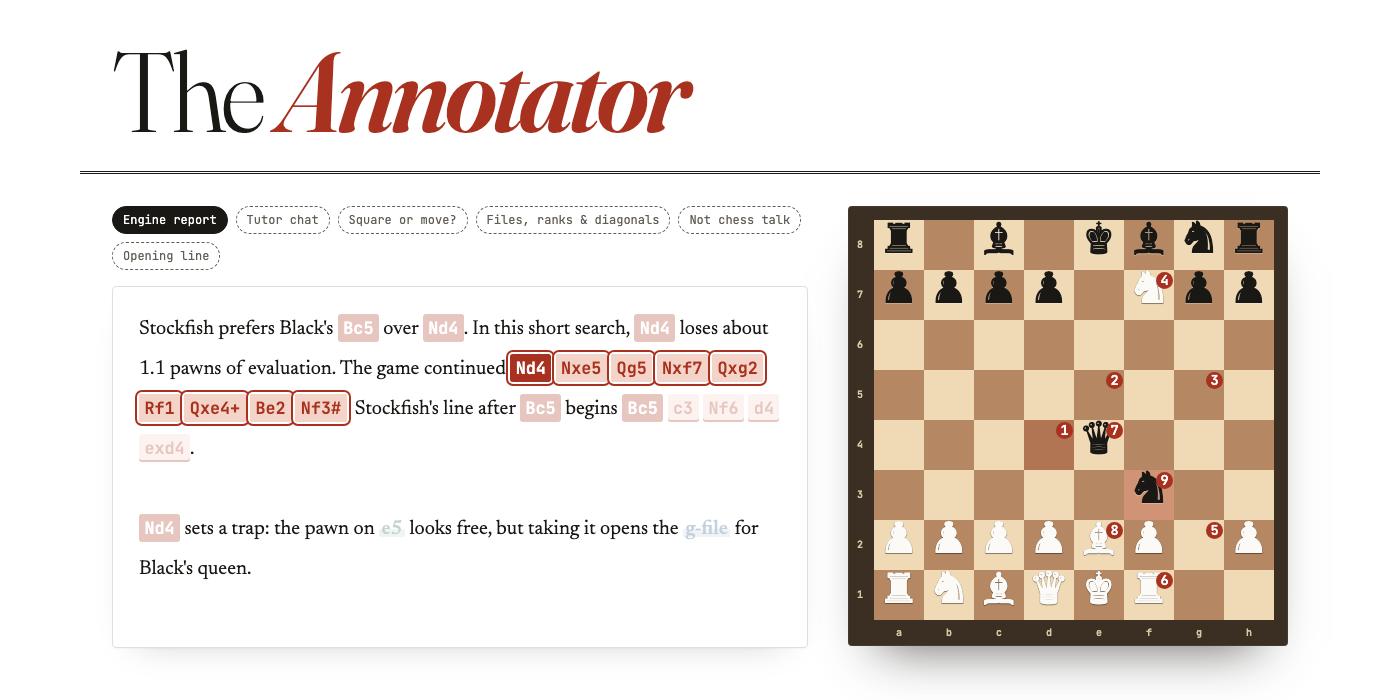
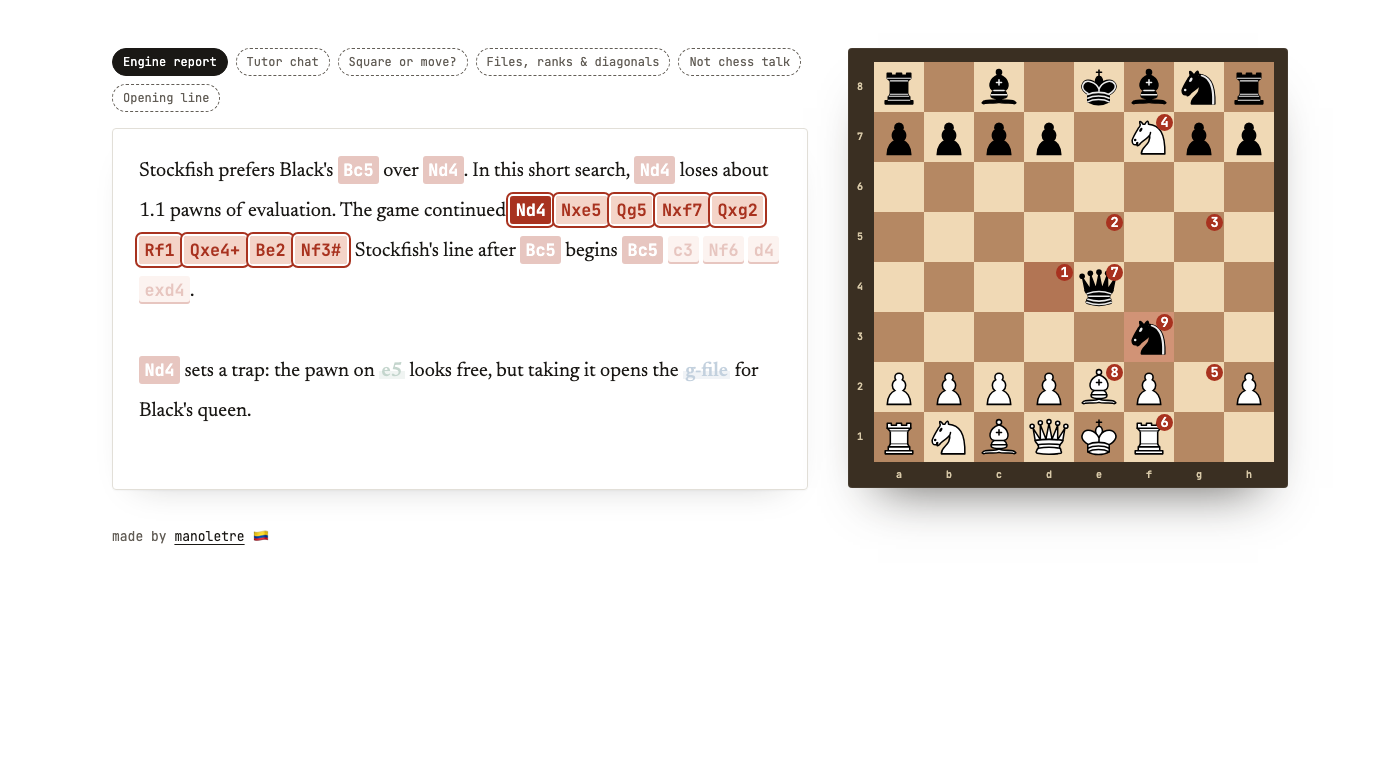
Demo page: drop the title, add a footer, SVG pieces centred on their squares
Unicode chess glyphs sit wherever the font's metrics put them, so they were
off-centre. The cburnett SVG pieces fill each square instead.

diff --git a/web/style.css b/web/style.css
@@ -14,7 +14,6 @@
   --RANK: #9b6710;
   --DIAGONAL: #773a72;
 
-  --display: "Fraunces", Georgia, serif;
   --body: "Newsreader", Georgia, serif;
   --mono: "JetBrains Mono", ui-monospace, monospace;
   --radius: 4px;
@@ -30,18 +29,6 @@ body {
   min-height: 100vh;
 }
 
-h1 {
-  max-width: 1240px;
-  margin: 0 auto;
-  padding: 40px 32px 28px;
-  font: 300 clamp(52px, 8vw, 112px)/0.92 var(--display);
-  font-variation-settings: "opsz" 144;
-  letter-spacing: -0.035em;
-  border-bottom: 3px double var(--ink);
-  animation: rise 0.7s cubic-bezier(0.2, 0.8, 0.2, 1) both;
-}
-h1 em { font-style: italic; font-weight: 600; color: var(--START); }
-
 .desk {
   max-width: 1240px;
   margin: 0 auto;
@@ -50,6 +37,7 @@ h1 em { font-style: italic; font-weight: 600; color: var(--START); }
   grid-template-columns: minmax(0, 1fr) 440px;
   gap: 40px;
   align-items: start;
+  padding-top: 48px;
 }
 .panel { display: grid; gap: 16px; min-width: 0; animation: rise 0.7s 0.08s cubic-bezier(0.2, 0.8, 0.2, 1) both; }
 
@@ -166,14 +154,11 @@ h1 em { font-style: italic; font-weight: 600; color: var(--START); }
 .sq.is-from { box-shadow: inset 0 0 0 100vmax rgba(168, 50, 31, 0.22); }
 .sq.is-to { box-shadow: inset 0 0 0 100vmax rgba(168, 50, 31, 0.42); }
 .sq__piece {
-  position: relative;
+  position: absolute; /* fills the square exactly, so every piece sits dead centre */
+  inset: 4%;
   z-index: 1;
-  font: 400 10.4cqw/1 "Noto Sans Symbols 2", "Segoe UI Symbol", serif;
-  user-select: none;
-  animation: stamp 0.25s ease-out both;
+  background: center / contain no-repeat;
 }
-.sq__piece--w { color: #fbfaf7; -webkit-text-stroke: 0.9px #1a1815; paint-order: stroke fill; text-shadow: 0 1px 1px rgba(0, 0, 0, 0.25); }
-.sq__piece--b { color: #1a1815; text-shadow: 0 1px 0 rgba(255, 255, 255, 0.25); }
 .sq__file, .sq__rank { position: absolute; font: 600 10px/1 var(--mono); color: #d8c9a8; }
 .sq__file { bottom: -18px; left: 50%; transform: translateX(-50%); }
 .sq__rank { left: -17px; top: 50%; transform: translateY(-50%); }
@@ -194,6 +179,16 @@ h1 em { font-style: italic; font-weight: 600; color: var(--START); }
   animation: stamp 0.35s cubic-bezier(0.2, 1.4, 0.4, 1) both;
 }
 
+footer {
+  max-width: 1240px;
+  margin: 0 auto;
+  padding: 8px 32px 40px;
+  font: 400 13px/1 var(--mono);
+  color: var(--ink-soft);
+}
+footer a { color: var(--ink); text-underline-offset: 3px; }
+footer a:hover { color: var(--START); }
+
 /* ---------- motion ---------- */
 
 @keyframes rise { from { opacity: 0; transform: translateY(14px); } }
@@ -211,5 +206,5 @@ h1 em { font-style: italic; font-weight: 600; color: var(--START); }
   .text { min-height: 220px; }
 }
 @media (max-width: 560px) {
-  h1, .desk { padding-left: 18px; padding-right: 18px; }
+  .desk, footer { padding-left: 18px; padding-right: 18px; }
 }

diff --git a/web/app.js b/web/app.js
@@ -9,8 +9,6 @@ ort.env.wasm.wasmPaths = "https://cdn.jsdelivr.net/npm/onnxruntime-web@1.30.0/di
 const FILES = "abcdefgh";
 const ORDINALS = ["first", "second", "third", "fourth", "fifth", "sixth", "seventh", "eighth"];
 const START_FEN = new Chess().fen();
-// Filled glyphs for both colours (styled in CSS); U+FE0E forces text, not emoji, rendering.
-const GLYPHS = { k: "♚", q: "♛", r: "♜", b: "♝", n: "♞", p: "♟" };
 
 const $ = (selector) => document.querySelector(selector);
 const editor = $("#text");
@@ -41,9 +39,9 @@ for (let rank = 8; rank >= 1; rank--) {
 function drawPosition(game, { lit = [], color = null, lastMove = null, steps = {} } = {}) {
   for (const [name, cell] of Object.entries(squares)) {
     const piece = game.get(name);
+    const image = piece ? `url(pieces/${piece.color}${piece.type.toUpperCase()}.svg)` : "none";
     const glyph = cell.querySelector(".sq__piece");
-    glyph.textContent = piece ? GLYPHS[piece.type] + "" : "";
-    glyph.className = `sq__piece${piece ? ` sq__piece--${piece.color}` : ""}`;
+    if (glyph.style.backgroundImage !== image) glyph.style.backgroundImage = image;
     cell.classList.remove("is-lit", "is-from", "is-to");
     cell.style.removeProperty("--lit");
     cell.style.removeProperty("--d");

diff --git a/web/index.html b/web/index.html
@@ -6,12 +6,10 @@
   <title>The Annotator</title>
   <link rel="preconnect" href="https://fonts.googleapis.com">
   <link rel="preconnect" href="https://fonts.gstatic.com" crossorigin>
-  <link href="https://fonts.googleapis.com/css2?family=Fraunces:ital,opsz,wght@0,9..144,300..800;1,9..144,300..800&family=Newsreader:ital,opsz,wght@0,6..72,400..600;1,6..72,400..600&family=JetBrains+Mono:wght@400;600&family=Noto+Sans+Symbols+2&display=swap" rel="stylesheet">
+  <link href="https://fonts.googleapis.com/css2?family=Newsreader:ital,opsz,wght@0,6..72,400..600;1,6..72,400..600&family=JetBrains+Mono:wght@400;600&display=swap" rel="stylesheet">
   <link rel="stylesheet" href="style.css">
 </head>
 <body>
-  <h1>The <em>Annotator</em></h1>
-
   <main class="desk">
     <section class="panel">
       <div class="examples" id="examples"></div>
@@ -25,6 +23,8 @@
       <div class="board" id="board" role="img" aria-label="Chessboard"></div>
     </div>
   </main>
+
+  <footer>made by <a href="https://www.manoletre.com">manoletre</a> 🇨🇴</footer>
 
   <script type="module" src="app.js"></script>
 </body>
